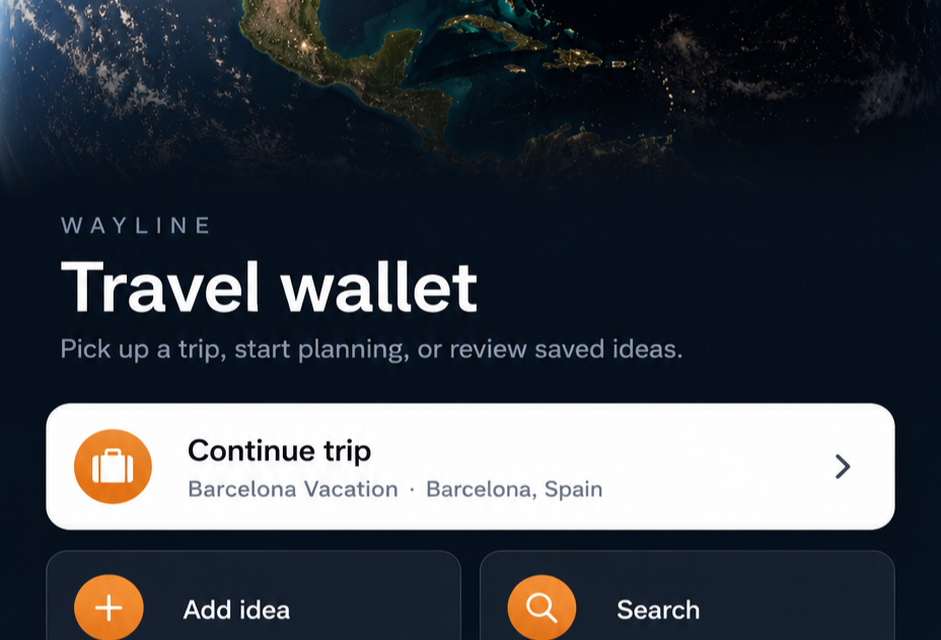
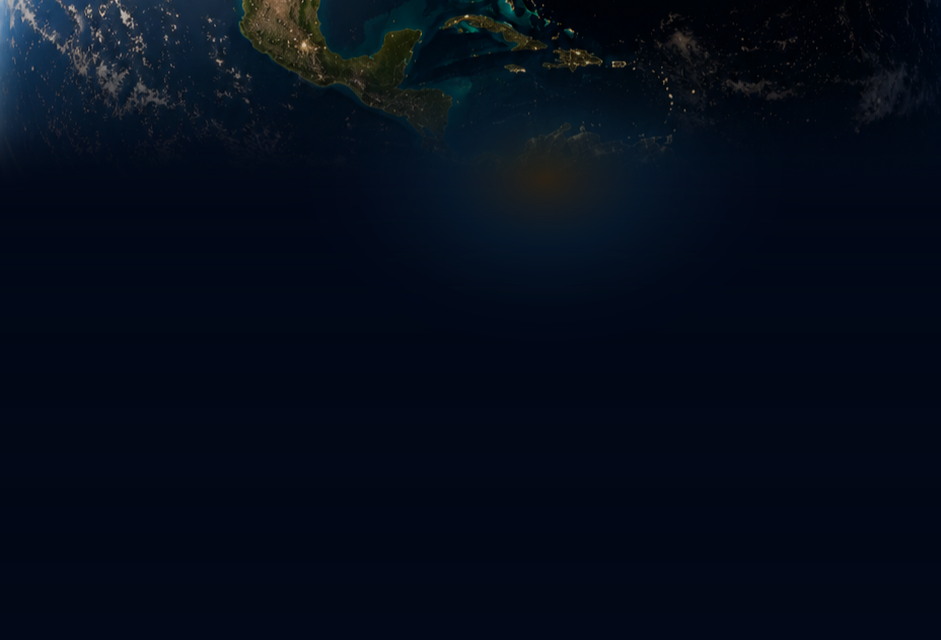
Remove baked UI from mobile Earth hero

diff --git a/tests/playwright/mobile-ux.spec.ts b/tests/playwright/mobile-ux.spec.ts
@@ -503,6 +503,10 @@ test.describe("mobile soft-launch UX", () => {
     await expect(page.getByTestId("mobile-home-earth-hero")).toBeVisible();
     await expect(page.getByTestId("mobile-home-globe")).toBeVisible();
     await expect(page.getByTestId("mobile-home-earth-photorealistic")).toBeVisible();
+    await expect(page.getByTestId("mobile-home-earth-photorealistic")).toHaveAttribute(
+      "data-earth-source",
+      "clean-earth-only-fallback"
+    );
     await expect(page.getByTestId("mobile-home-earth-image")).toBeVisible();
     await expect(page.getByRole("heading", { name: "Travel wallet" })).toHaveCount(1);
     await expect(page.getByTestId("mobile-home-earth-hero").getByText("Travel wallet")).toHaveCount(0);
@@ -669,6 +673,10 @@ test.describe("mobile soft-launch UX", () => {
     await expect(page.getByTestId("mobile-home-earth-hero")).toBeVisible();
     await expect(page.getByTestId("mobile-home-globe")).toBeVisible();
     await expect(page.getByTestId("mobile-home-earth-photorealistic")).toBeVisible();
+    await expect(page.getByTestId("mobile-home-earth-photorealistic")).toHaveAttribute(
+      "data-earth-source",
+      "clean-earth-only-fallback"
+    );
     await expect(page.getByTestId("mobile-home-earth-image")).toBeVisible();
     await expect(page.getByTestId("mobile-home-earth-texture")).toHaveCount(0);
     await expect(page.getByTestId("mobile-home-earth-continents")).toHaveCount(0);

diff --git a/components/dashboard/mobile-home-globe.tsx b/components/dashboard/mobile-home-globe.tsx
@@ -21,7 +21,7 @@ const DEFAULT_COUNTRY: CountryFocus = {
   flag: "🇺🇸",
   name: "United States",
   x: 58,
-  y: 42
+  y: 28
 };
 
 const COUNTRY_BY_CODE: Record<string, CountryFocus> = {
@@ -189,7 +189,7 @@ export function MobileHomeGlobe({ className }: MobileHomeGlobeProps) {
     >
       <div
         className="absolute inset-0 overflow-hidden"
-        data-earth-source="static-photorealistic-fallback"
+        data-earth-source="clean-earth-only-fallback"
         data-testid="mobile-home-earth-photorealistic"
       >
         <Image